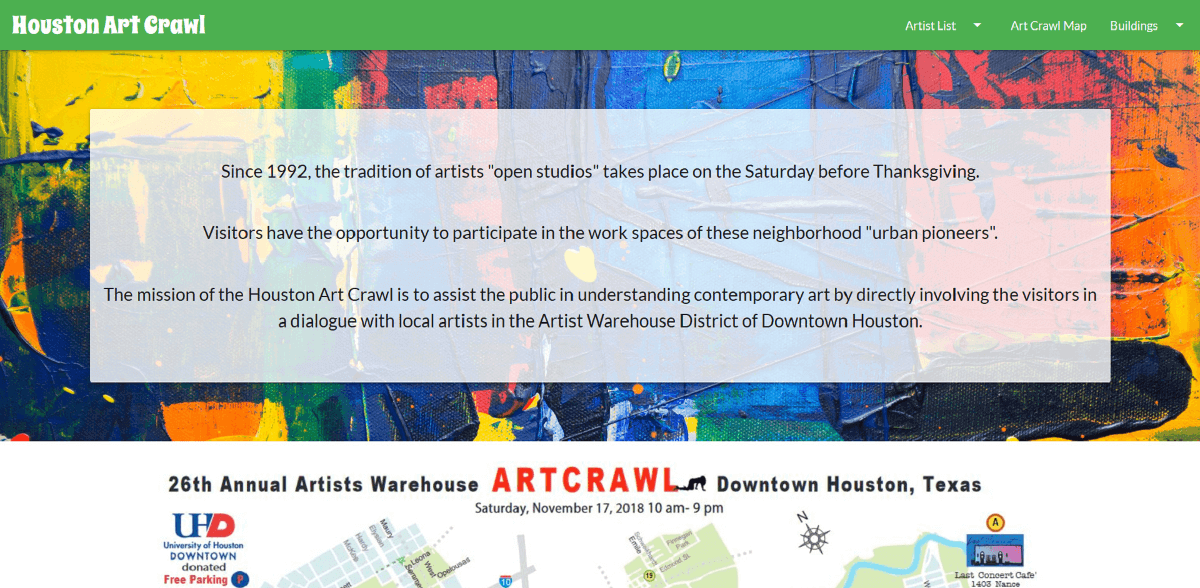
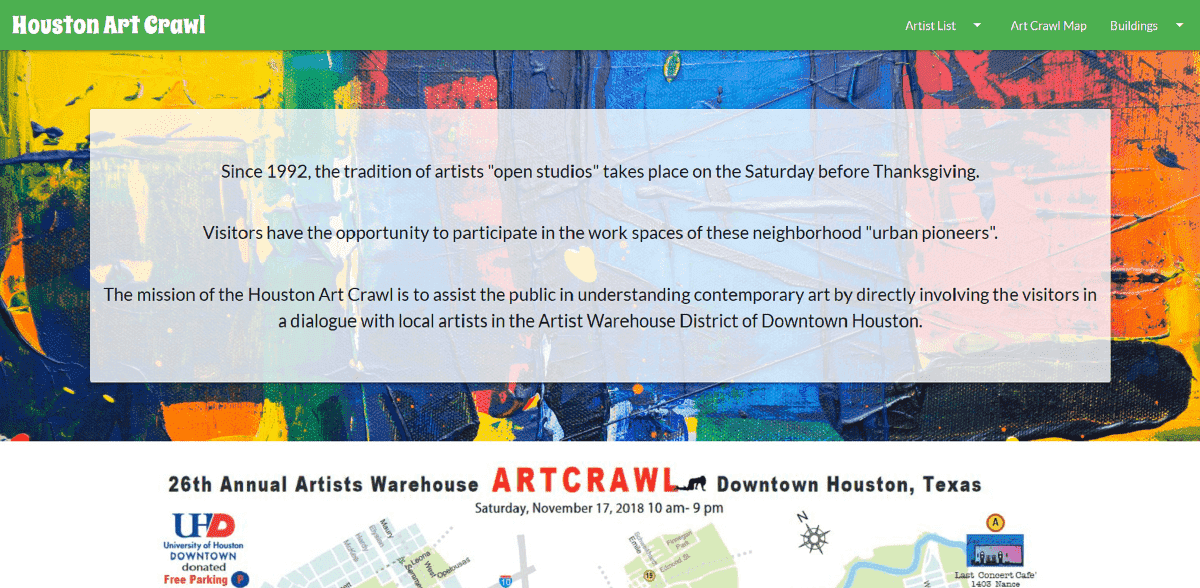
Update
Added project.

Reduced image size for art crawl site.

diff --git a/index.html b/index.html
@@ -175,7 +175,25 @@
 						</span>
 					</div>
 				</div>
-	    	</div>
+			</div>
+			<!--NASA Birthday Image-->
+			<div class="flex column">
+				<div class="project">
+					<img src="img/NASA-bday.png" alt="NASA-bday-png"/>
+					<div class="modal hide">
+						<p class="close hide">X</p>
+						<h3>NASA Birthday Image</h3>
+						<p>
+							This is a site I created when I was learning about making API calls. It sends a request to the NASA image of the day API
+							and based off the user input of their day and month of birth it will randomize an image.
+						</p>
+						<span>
+							<a href="https://github.com/melanievillela/nasa-apod-birthday" target="_blank">Github</a>				
+							<a href="https://melanievillela.github.io/nasa-apod-birthday/" target="_blank">Live</a>
+						</span>
+					</div>
+				</div>
+			</div>
 		</section>
 	</div>
 </body>
